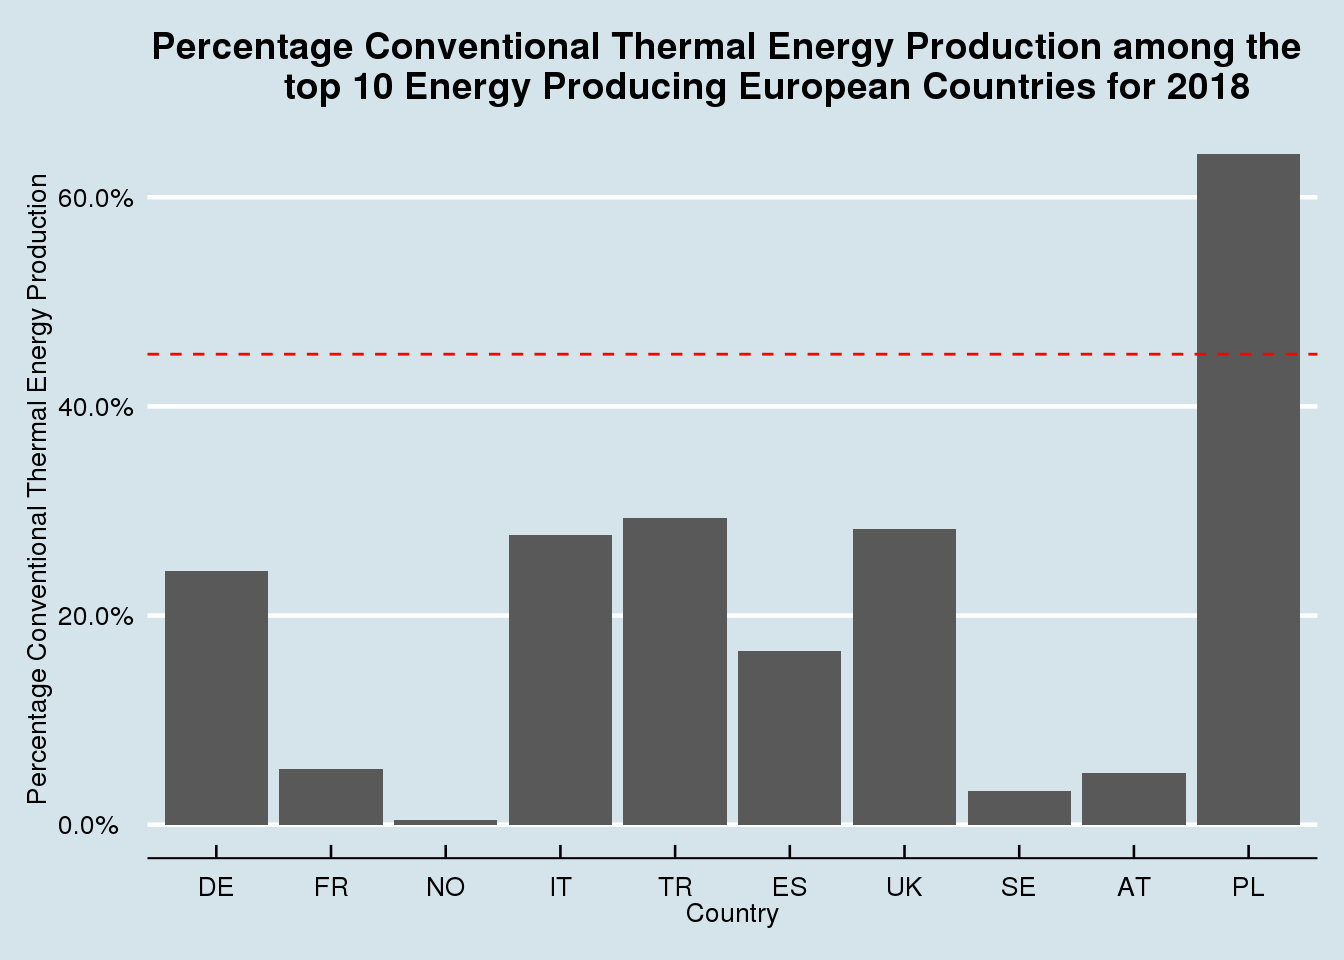
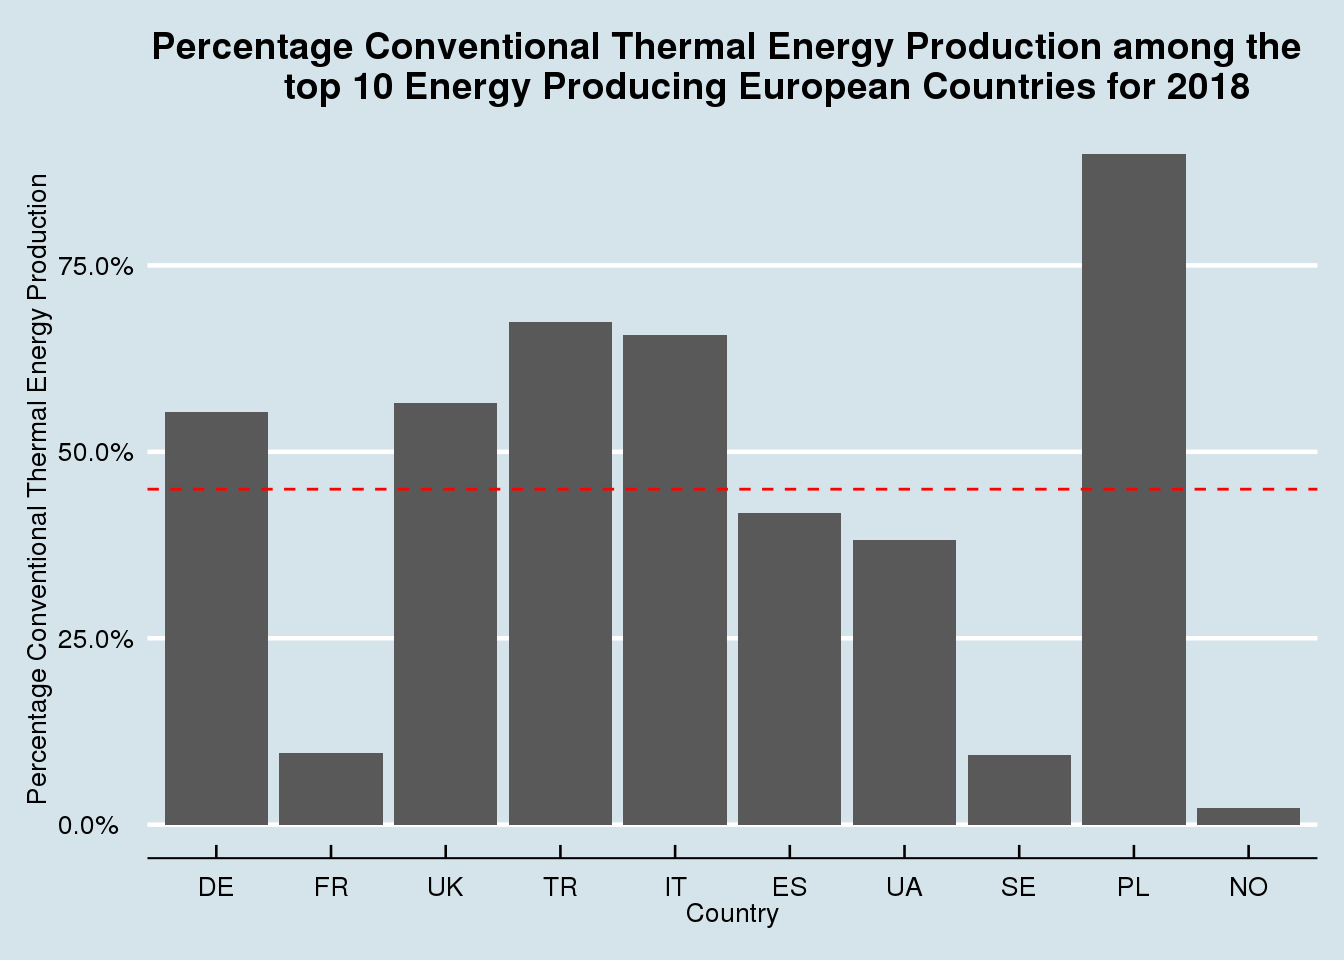
finished europe energy & changed a NFL question

diff --git a/public/2020/12/03/a-first-post/index.html b/public/2020/12/03/a-first-post/index.html
@@ -66,7 +66,7 @@
 
   <article class="article">
     
-    <span class="article-duration">5 min read</span>
+    <span class="article-duration">6 min read</span>
     
 
     <h1 class="article-title">NFL Data Analysis</h1>
@@ -102,12 +102,12 @@ played on different times and dates have different amounts of attendance.</p>
 <div id="question-1" class="section level1">
 <h1>Question 1</h1>
 <p>Do playoff teams have more attendance at their home games than non-playoff teams? If so,
-does the superbowl winner usually lead the league in attendance? To test this, I first joined the attendance
+does the Superbowl winner usually lead the league in attendance? To test this, I first joined the attendance
 dataset and the standings dataset to compare the attendance data and whether or not each team
 made the playoffs.</p>
 <pre class="r"><code>dat &lt;- attendance %&gt;%
   left_join(standings, by = c(&quot;team&quot;, &quot;team_name&quot;, &quot;year&quot;))</code></pre>
-<p>Next, I made some graphics to better visualize if there was any correlation between higher home field attendance and team success.</p>
+<p>Next, I made some graphics to better visualize if there was any correlation between higher home field attendance and team success. The first graphic I made plots the total attendance at home games for that season against the number wins that team had and whether or not they made the playoffs.</p>
 <pre class="r"><code>ggplot(dat, aes(x = wins, y = home)) +
   geom_point(aes(color = playoffs)) +
   geom_smooth(method = &quot;lm&quot;) +
@@ -117,7 +117,7 @@ made the playoffs.</p>
   theme_economist() +
   theme(plot.title = element_text(hjust = 0.35)) </code></pre>
 <p><img src="index_files/figure-html/unnamed-chunk-2-1.png" width="672" /></p>
-<p>Next, I…</p>
+<p>Next, I wanted to easily compare the difference in total attendance at home games between teams that made the playoffs and those that did not and between teams that won the Superbowl and those that did not. Therefore, I made 2 boxplots, one that plots total home team attendance against whether each team made the playoffs, and another that plots total home team attendance against whether each team won the Superbowl.</p>
 <pre class="r"><code>p1 &lt;- ggplot(dat, aes(x = playoffs, y = home)) +
   geom_boxplot() +
   labs(x = &quot;Playoff Birth&quot;, y = &quot;Total Attendence at Home Games&quot;) +
@@ -134,45 +134,58 @@ patchwork &lt;- p1 + p2
 patchwork + 
   plot_annotation(title = &quot;Home Game Attendence vs Playoff Births &amp; Superbowl Winners&quot;) </code></pre>
 <p><img src="index_files/figure-html/unnamed-chunk-3-1.png" width="672" /></p>
-<pre class="r"><code>dat %&gt;%
+<p>Lastly, I wanted to see which teams had the highest average home attendance since 2000 and whether the teams with the highest attendance where the most successful. To test this, I made a a bar graph that plots the average home attendance since 2000 for each NFL team, and I ordered the teams on the x-axis by the number of playoff appearances that they had since 2000 to see if there was any trend.</p>
+<pre class="r"><code>dat2 &lt;- dat %&gt;%
   group_by(team_name) %&gt;%
-  summarize(avr_home = mean(home)) %&gt;%
-  ggplot(aes(x = reorder(team_name, -avr_home), y = avr_home)) +
-    geom_col() +
-    labs(x = &quot;Team&quot;, y = &quot;Home Attendences&quot;) +
-    ggtitle(&quot;Average Home Attendence since 2000 by NFL Team&quot;) +
-    theme_economist() +
-    theme(axis.text.x = element_text(angle = 90, hjust = 1, vjust = 0.5)) +
-    theme(plot.title = element_text(size = 14, hjust = 0.35))</code></pre>
+  summarize(avr_home = mean(home))
+
+dat3 &lt;- standings %&gt;%
+  count(playoffs, team_name) %&gt;%
+  filter(playoffs == &quot;Playoffs&quot;) %&gt;%
+  left_join(dat2, by = &quot;team_name&quot;)
+
+ggplot(dat3, aes(x = reorder(team_name, -n), y = avr_home)) +
+  geom_col() +
+  labs(x = &quot;Teams ordered by Number of Playoff Appearances since 2000&quot;, y = &quot;Home Attendences&quot;) +
+  ggtitle(&quot;Average Home Attendence since 2000 by NFL Team&quot;) +
+  theme_economist() +
+  theme(axis.text.x = element_text(angle = 90, hjust = 1, vjust = 0.5)) +
+  theme(plot.title = element_text(size = 14, hjust = 0.35))</code></pre>
 <p><img src="index_files/figure-html/unnamed-chunk-4-1.png" width="672" />
-There is a clear positive correlation between teams that went to the playoffs and higher attendance at home games. However, there were many teams with high attendance that missed the playoffs and teams with low attendance that did make the playoffs. Also, when looking at Superbowl Winners, there is almost no difference in attendance between teams that did win the Superbowl and those who did not. This leads me to believe that the effect that high attendance has on the success of NFL teams is very small.</p>
+There is a clear positive correlation between teams that went to the playoffs and higher attendance at home games. However, there were many teams with high attendance that missed the playoffs and teams with low attendance that did make the playoffs. Also, when looking at Superbowl Winners, there is almost no difference in attendance between teams that did win the Superbowl and those who did not. Lastly, the average home attendance graph shows that there is no correlation between teams with high average attendance and more playoff appearances. This leads me to believe that the effect that high attendance has on the success of NFL teams is very small.</p>
 </div>
 <div id="question-2" class="section level1">
 <h1>Question 2</h1>
-<p>When is the optimal time and day for a NFL game to receive the highest attendance? To find this, I joined the attendance dataset and the games dataset to compare attendances over different times and dates.</p>
-<pre class="r"><code>games &lt;- games %&gt;%
-  mutate(week = as.numeric(week))</code></pre>
-<pre><code>## Warning: NAs introduced by coercion</code></pre>
+<p>Is there any home field advantage in the NFL? To test this, I</p>
 <pre class="r"><code>games %&gt;%
-  left_join(attendance, by = c(&quot;home_team_city&quot; = &quot;team&quot;, &quot;home_team_name&quot; = &quot;team_name&quot;, &quot;year&quot;, &quot;week&quot;)) %&gt;%
-  filter(day %in% c(&quot;Sun&quot;, &quot;Mon&quot;, &quot;Thu&quot;)) %&gt;%
-  group_by(day, time) %&gt;%
-  summarize(avr_attendance = mean(weekly_attendance, na.rm = TRUE))</code></pre>
-<pre><code>## # A tibble: 209 x 3
-## # Groups:   day [3]
-##    day   time   avr_attendance
-##    &lt;chr&gt; &lt;time&gt;          &lt;dbl&gt;
-##  1 Mon   16:30          71842 
-##  2 Mon   17:07          62839 
-##  3 Mon   19:05          56044 
-##  4 Mon   19:07          75735 
-##  5 Mon   19:10          70130.
-##  6 Mon   19:11          78044.
-##  7 Mon   19:13          66860 
-##  8 Mon   19:20          45910 
-##  9 Mon   19:26          78127 
-## 10 Mon   19:36          68031 
-## # … with 199 more rows</code></pre>
+  mutate(home_win = home_team == winner) %&gt;%
+  group_by(year) %&gt;%
+  summarize(home_win_pct = sum(home_win)/ n()) %&gt;%
+  ggplot(aes(x = year, y = home_win_pct)) +
+    geom_col() +
+    scale_y_continuous(labels = scales::percent) +
+    labs(x = &quot;Season&quot;, y = &quot;Home Team Win Percentage&quot;) +
+    ggtitle(&quot;Home Team Win Percentage by Season since 2000&quot;) +
+    theme_economist() +
+    theme(plot.title = element_text(hjust = 0.35))</code></pre>
+<p><img src="index_files/figure-html/unnamed-chunk-5-1.png" width="672" /></p>
+<pre class="r"><code>dat4 &lt;- games %&gt;%
+  filter(home_team == winner) %&gt;%
+  group_by(year) %&gt;%
+  summarize(avr_home_pts_win = mean(pts_win), avr_away_pts_loss = mean(pts_loss))
+
+dat5 &lt;- games %&gt;%
+  filter(away_team == winner) %&gt;%
+  group_by(year) %&gt;%
+  summarize(avr_home_pts_loss = mean(pts_loss), avr_away_pts_win = mean(pts_win))
+
+dat4 %&gt;%
+  left_join(dat5, by = &quot;year&quot;) %&gt;%
+  summarize(avr_home_pts_win = mean(avr_home_pts_win), avr_away_pts_win = mean(avr_away_pts_win), avr_home_pts_loss = mean(avr_home_pts_loss), avr_away_pts_loss = mean(avr_away_pts_loss))</code></pre>
+<pre><code>## # A tibble: 1 x 4
+##   avr_home_pts_win avr_away_pts_win avr_home_pts_loss avr_away_pts_loss
+##              &lt;dbl&gt;            &lt;dbl&gt;             &lt;dbl&gt;             &lt;dbl&gt;
+## 1             28.1             27.3              16.5              15.8</code></pre>
 <p>So far this is as far as I have gotten, bc there are way more times than I thought and I am still trying to figure out a way to deal with it.</p>
 </div>
 <div id="question-3" class="section level1">
@@ -198,7 +211,7 @@ f2 &lt;- ggplot(dat, aes(x = points_for, y = home)) +
   theme(plot.title = element_text(hjust = 0.35))
 
 f1 / f2</code></pre>
-<p><img src="index_files/figure-html/unnamed-chunk-6-1.png" width="672" /></p>
+<p><img src="index_files/figure-html/unnamed-chunk-7-1.png" width="672" /></p>
 <pre class="r"><code>f3 &lt;- ggplot(dat, aes(x = defensive_ranking, y = home)) +
   geom_point() +
   geom_smooth(method = &quot;lm&quot;) +
@@ -216,7 +229,7 @@ f4 &lt;- ggplot(dat, aes(x = points_against, y = home)) +
   theme(plot.title = element_text(hjust = 0.35))
 
 f3 / f4</code></pre>
-<p><img src="index_files/figure-html/unnamed-chunk-6-2.png" width="672" /></p>
+<p><img src="index_files/figure-html/unnamed-chunk-8-1.png" width="672" /></p>
 <p>The graphs show that both a good offense and defense attract slightly larger crowds to NFL games.</p>
 </div>
 <div id="conclusions" class="section level1">

diff --git a/content/post/2020-12-03-a-first-post/index.html b/content/post/2020-12-03-a-first-post/index.html
@@ -32,12 +32,12 @@ played on different times and dates have different amounts of attendance.</p>
 <div id="question-1" class="section level1">
 <h1>Question 1</h1>
 <p>Do playoff teams have more attendance at their home games than non-playoff teams? If so,
-does the superbowl winner usually lead the league in attendance? To test this, I first joined the attendance
+does the Superbowl winner usually lead the league in attendance? To test this, I first joined the attendance
 dataset and the standings dataset to compare the attendance data and whether or not each team
 made the playoffs.</p>
 <pre class="r"><code>dat &lt;- attendance %&gt;%
   left_join(standings, by = c(&quot;team&quot;, &quot;team_name&quot;, &quot;year&quot;))</code></pre>
-<p>Next, I made some graphics to better visualize if there was any correlation between higher home field attendance and team success.</p>
+<p>Next, I made some graphics to better visualize if there was any correlation between higher home field attendance and team success. The first graphic I made plots the total attendance at home games for that season against the number wins that team had and whether or not they made the playoffs.</p>
 <pre class="r"><code>ggplot(dat, aes(x = wins, y = home)) +
   geom_point(aes(color = playoffs)) +
   geom_smooth(method = &quot;lm&quot;) +
@@ -47,7 +47,7 @@ made the playoffs.</p>
   theme_economist() +
   theme(plot.title = element_text(hjust = 0.35)) </code></pre>
 <p><img src="index_files/figure-html/unnamed-chunk-2-1.png" width="672" /></p>
-<p>Next, I…</p>
+<p>Next, I wanted to easily compare the difference in total attendance at home games between teams that made the playoffs and those that did not and between teams that won the Superbowl and those that did not. Therefore, I made 2 boxplots, one that plots total home team attendance against whether each team made the playoffs, and another that plots total home team attendance against whether each team won the Superbowl.</p>
 <pre class="r"><code>p1 &lt;- ggplot(dat, aes(x = playoffs, y = home)) +
   geom_boxplot() +
   labs(x = &quot;Playoff Birth&quot;, y = &quot;Total Attendence at Home Games&quot;) +
@@ -64,45 +64,58 @@ patchwork &lt;- p1 + p2
 patchwork + 
   plot_annotation(title = &quot;Home Game Attendence vs Playoff Births &amp; Superbowl Winners&quot;) </code></pre>
 <p><img src="index_files/figure-html/unnamed-chunk-3-1.png" width="672" /></p>
-<pre class="r"><code>dat %&gt;%
+<p>Lastly, I wanted to see which teams had the highest average home attendance since 2000 and whether the teams with the highest attendance where the most successful. To test this, I made a a bar graph that plots the average home attendance since 2000 for each NFL team, and I ordered the teams on the x-axis by the number of playoff appearances that they had since 2000 to see if there was any trend.</p>
+<pre class="r"><code>dat2 &lt;- dat %&gt;%
   group_by(team_name) %&gt;%
-  summarize(avr_home = mean(home)) %&gt;%
-  ggplot(aes(x = reorder(team_name, -avr_home), y = avr_home)) +
-    geom_col() +
-    labs(x = &quot;Team&quot;, y = &quot;Home Attendences&quot;) +
-    ggtitle(&quot;Average Home Attendence since 2000 by NFL Team&quot;) +
-    theme_economist() +
-    theme(axis.text.x = element_text(angle = 90, hjust = 1, vjust = 0.5)) +
-    theme(plot.title = element_text(size = 14, hjust = 0.35))</code></pre>
+  summarize(avr_home = mean(home))
+
+dat3 &lt;- standings %&gt;%
+  count(playoffs, team_name) %&gt;%
+  filter(playoffs == &quot;Playoffs&quot;) %&gt;%
+  left_join(dat2, by = &quot;team_name&quot;)
+
+ggplot(dat3, aes(x = reorder(team_name, -n), y = avr_home)) +
+  geom_col() +
+  labs(x = &quot;Teams ordered by Number of Playoff Appearances since 2000&quot;, y = &quot;Home Attendences&quot;) +
+  ggtitle(&quot;Average Home Attendence since 2000 by NFL Team&quot;) +
+  theme_economist() +
+  theme(axis.text.x = element_text(angle = 90, hjust = 1, vjust = 0.5)) +
+  theme(plot.title = element_text(size = 14, hjust = 0.35))</code></pre>
 <p><img src="index_files/figure-html/unnamed-chunk-4-1.png" width="672" />
-There is a clear positive correlation between teams that went to the playoffs and higher attendance at home games. However, there were many teams with high attendance that missed the playoffs and teams with low attendance that did make the playoffs. Also, when looking at Superbowl Winners, there is almost no difference in attendance between teams that did win the Superbowl and those who did not. This leads me to believe that the effect that high attendance has on the success of NFL teams is very small.</p>
+There is a clear positive correlation between teams that went to the playoffs and higher attendance at home games. However, there were many teams with high attendance that missed the playoffs and teams with low attendance that did make the playoffs. Also, when looking at Superbowl Winners, there is almost no difference in attendance between teams that did win the Superbowl and those who did not. Lastly, the average home attendance graph shows that there is no correlation between teams with high average attendance and more playoff appearances. This leads me to believe that the effect that high attendance has on the success of NFL teams is very small.</p>
 </div>
 <div id="question-2" class="section level1">
 <h1>Question 2</h1>
-<p>When is the optimal time and day for a NFL game to receive the highest attendance? To find this, I joined the attendance dataset and the games dataset to compare attendances over different times and dates.</p>
-<pre class="r"><code>games &lt;- games %&gt;%
-  mutate(week = as.numeric(week))</code></pre>
-<pre><code>## Warning: NAs introduced by coercion</code></pre>
+<p>Is there any home field advantage in the NFL? To test this, I</p>
 <pre class="r"><code>games %&gt;%
-  left_join(attendance, by = c(&quot;home_team_city&quot; = &quot;team&quot;, &quot;home_team_name&quot; = &quot;team_name&quot;, &quot;year&quot;, &quot;week&quot;)) %&gt;%
-  filter(day %in% c(&quot;Sun&quot;, &quot;Mon&quot;, &quot;Thu&quot;)) %&gt;%
-  group_by(day, time) %&gt;%
-  summarize(avr_attendance = mean(weekly_attendance, na.rm = TRUE))</code></pre>
-<pre><code>## # A tibble: 209 x 3
-## # Groups:   day [3]
-##    day   time   avr_attendance
-##    &lt;chr&gt; &lt;time&gt;          &lt;dbl&gt;
-##  1 Mon   16:30          71842 
-##  2 Mon   17:07          62839 
-##  3 Mon   19:05          56044 
-##  4 Mon   19:07          75735 
-##  5 Mon   19:10          70130.
-##  6 Mon   19:11          78044.
-##  7 Mon   19:13          66860 
-##  8 Mon   19:20          45910 
-##  9 Mon   19:26          78127 
-## 10 Mon   19:36          68031 
-## # … with 199 more rows</code></pre>
+  mutate(home_win = home_team == winner) %&gt;%
+  group_by(year) %&gt;%
+  summarize(home_win_pct = sum(home_win)/ n()) %&gt;%
+  ggplot(aes(x = year, y = home_win_pct)) +
+    geom_col() +
+    scale_y_continuous(labels = scales::percent) +
+    labs(x = &quot;Season&quot;, y = &quot;Home Team Win Percentage&quot;) +
+    ggtitle(&quot;Home Team Win Percentage by Season since 2000&quot;) +
+    theme_economist() +
+    theme(plot.title = element_text(hjust = 0.35))</code></pre>
+<p><img src="index_files/figure-html/unnamed-chunk-5-1.png" width="672" /></p>
+<pre class="r"><code>dat4 &lt;- games %&gt;%
+  filter(home_team == winner) %&gt;%
+  group_by(year) %&gt;%
+  summarize(avr_home_pts_win = mean(pts_win), avr_away_pts_loss = mean(pts_loss))
+
+dat5 &lt;- games %&gt;%
+  filter(away_team == winner) %&gt;%
+  group_by(year) %&gt;%
+  summarize(avr_home_pts_loss = mean(pts_loss), avr_away_pts_win = mean(pts_win))
+
+dat4 %&gt;%
+  left_join(dat5, by = &quot;year&quot;) %&gt;%
+  summarize(avr_home_pts_win = mean(avr_home_pts_win), avr_away_pts_win = mean(avr_away_pts_win), avr_home_pts_loss = mean(avr_home_pts_loss), avr_away_pts_loss = mean(avr_away_pts_loss))</code></pre>
+<pre><code>## # A tibble: 1 x 4
+##   avr_home_pts_win avr_away_pts_win avr_home_pts_loss avr_away_pts_loss
+##              &lt;dbl&gt;            &lt;dbl&gt;             &lt;dbl&gt;             &lt;dbl&gt;
+## 1             28.1             27.3              16.5              15.8</code></pre>
 <p>So far this is as far as I have gotten, bc there are way more times than I thought and I am still trying to figure out a way to deal with it.</p>
 </div>
 <div id="question-3" class="section level1">
@@ -128,7 +141,7 @@ f2 &lt;- ggplot(dat, aes(x = points_for, y = home)) +
   theme(plot.title = element_text(hjust = 0.35))
 
 f1 / f2</code></pre>
-<p><img src="index_files/figure-html/unnamed-chunk-6-1.png" width="672" /></p>
+<p><img src="index_files/figure-html/unnamed-chunk-7-1.png" width="672" /></p>
 <pre class="r"><code>f3 &lt;- ggplot(dat, aes(x = defensive_ranking, y = home)) +
   geom_point() +
   geom_smooth(method = &quot;lm&quot;) +
@@ -146,7 +159,7 @@ f4 &lt;- ggplot(dat, aes(x = points_against, y = home)) +
   theme(plot.title = element_text(hjust = 0.35))
 
 f3 / f4</code></pre>
-<p><img src="index_files/figure-html/unnamed-chunk-6-2.png" width="672" /></p>
+<p><img src="index_files/figure-html/unnamed-chunk-8-1.png" width="672" /></p>
 <p>The graphs show that both a good offense and defense attract slightly larger crowds to NFL games.</p>
 </div>
 <div id="conclusions" class="section level1">

diff --git a/content/post/2020-12-08-european-energy-data-analysis/index.html b/content/post/2020-12-08-european-energy-data-analysis/index.html
@@ -25,7 +25,7 @@ tags: []
   rename(twenty_16.x = &#39;2016.x&#39;, twenty_17.x = &#39;2017.x&#39;, twenty_18.x = &#39;2018.x&#39;) %&gt;%
   filter(type.x %in% c(&quot;Hydro&quot;, &quot;Pumped hydro power&quot;, &quot;Wind&quot;, &quot;Solar&quot;, &quot;Geothermal&quot;, &quot;Other&quot;)) %&gt;%
   group_by(country) %&gt;%
-  summarize(renew_2016 = sum(twenty_16.x), renew_2017 = sum(twenty_17.x), renew_2018 = sum(twenty_18.x)) 
+  summarize(renew_2016 = sum(twenty_16.x)/5, renew_2017 = sum(twenty_17.x)/5, renew_2018 = sum(twenty_18.x)/5) 
 
 dat2 &lt;-  energy_types %&gt;%
   filter(type == &quot;Conventional thermal&quot;) %&gt;%
@@ -87,16 +87,16 @@ big_shift</code></pre>
 <pre><code>## # A tibble: 10 x 4
 ##    country renew_16_prc renew_18_prc  shift
 ##    &lt;chr&gt;          &lt;dbl&gt;        &lt;dbl&gt;  &lt;dbl&gt;
-##  1 UK             0.523        0.625 0.102 
-##  2 NL             0.331        0.431 0.0993
-##  3 BA             0.720        0.814 0.0939
-##  4 BE             0.443        0.534 0.0916
-##  5 DE             0.614        0.703 0.0891
-##  6 IE             0.621        0.704 0.0829
-##  7 LT             0.907        0.947 0.0402
-##  8 EL             0.673        0.704 0.0306
-##  9 FR             0.530        0.560 0.0293
-## 10 DK             0.813        0.841 0.0274</code></pre>
+##  1 BA            0.339         0.466 0.127 
+##  2 LT            0.662         0.783 0.121 
+##  3 DE            0.241         0.321 0.0799
+##  4 IE            0.247         0.323 0.0755
+##  5 UK            0.180         0.250 0.0699
+##  6 AT            0.733         0.793 0.0597
+##  7 BE            0.137         0.187 0.0495
+##  8 DK            0.466         0.514 0.0479
+##  9 NL            0.0902        0.131 0.0412
+## 10 HR            0.660         0.700 0.0393</code></pre>
 <p>Next, I shortened the data to have just the 10 European countries with the largest shifts. I then used this data to make a bar graph with these 10 counties and their percentage shift towards renewable energy, so that the results could be better visualized.</p>
 <pre class="r"><code>ggplot(big_shift, aes(x = reorder(country, -shift), y = shift)) +
   geom_col() +

diff --git a/public/2020/12/08/european-energy-data-analysis/index.html b/public/2020/12/08/european-energy-data-analysis/index.html
@@ -95,7 +95,7 @@
   rename(twenty_16.x = &#39;2016.x&#39;, twenty_17.x = &#39;2017.x&#39;, twenty_18.x = &#39;2018.x&#39;) %&gt;%
   filter(type.x %in% c(&quot;Hydro&quot;, &quot;Pumped hydro power&quot;, &quot;Wind&quot;, &quot;Solar&quot;, &quot;Geothermal&quot;, &quot;Other&quot;)) %&gt;%
   group_by(country) %&gt;%
-  summarize(renew_2016 = sum(twenty_16.x), renew_2017 = sum(twenty_17.x), renew_2018 = sum(twenty_18.x)) 
+  summarize(renew_2016 = sum(twenty_16.x)/5, renew_2017 = sum(twenty_17.x)/5, renew_2018 = sum(twenty_18.x)/5) 
 
 dat2 &lt;-  energy_types %&gt;%
   filter(type == &quot;Conventional thermal&quot;) %&gt;%
@@ -157,16 +157,16 @@ big_shift</code></pre>
 <pre><code>## # A tibble: 10 x 4
 ##    country renew_16_prc renew_18_prc  shift
 ##    &lt;chr&gt;          &lt;dbl&gt;        &lt;dbl&gt;  &lt;dbl&gt;
-##  1 UK             0.523        0.625 0.102 
-##  2 NL             0.331        0.431 0.0993
-##  3 BA             0.720        0.814 0.0939
-##  4 BE             0.443        0.534 0.0916
-##  5 DE             0.614        0.703 0.0891
-##  6 IE             0.621        0.704 0.0829
-##  7 LT             0.907        0.947 0.0402
-##  8 EL             0.673        0.704 0.0306
-##  9 FR             0.530        0.560 0.0293
-## 10 DK             0.813        0.841 0.0274</code></pre>
+##  1 BA            0.339         0.466 0.127 
+##  2 LT            0.662         0.783 0.121 
+##  3 DE            0.241         0.321 0.0799
+##  4 IE            0.247         0.323 0.0755
+##  5 UK            0.180         0.250 0.0699
+##  6 AT            0.733         0.793 0.0597
+##  7 BE            0.137         0.187 0.0495
+##  8 DK            0.466         0.514 0.0479
+##  9 NL            0.0902        0.131 0.0412
+## 10 HR            0.660         0.700 0.0393</code></pre>
 <p>Next, I shortened the data to have just the 10 European countries with the largest shifts. I then used this data to make a bar graph with these 10 counties and their percentage shift towards renewable energy, so that the results could be better visualized.</p>
 <pre class="r"><code>ggplot(big_shift, aes(x = reorder(country, -shift), y = shift)) +
   geom_col() +
